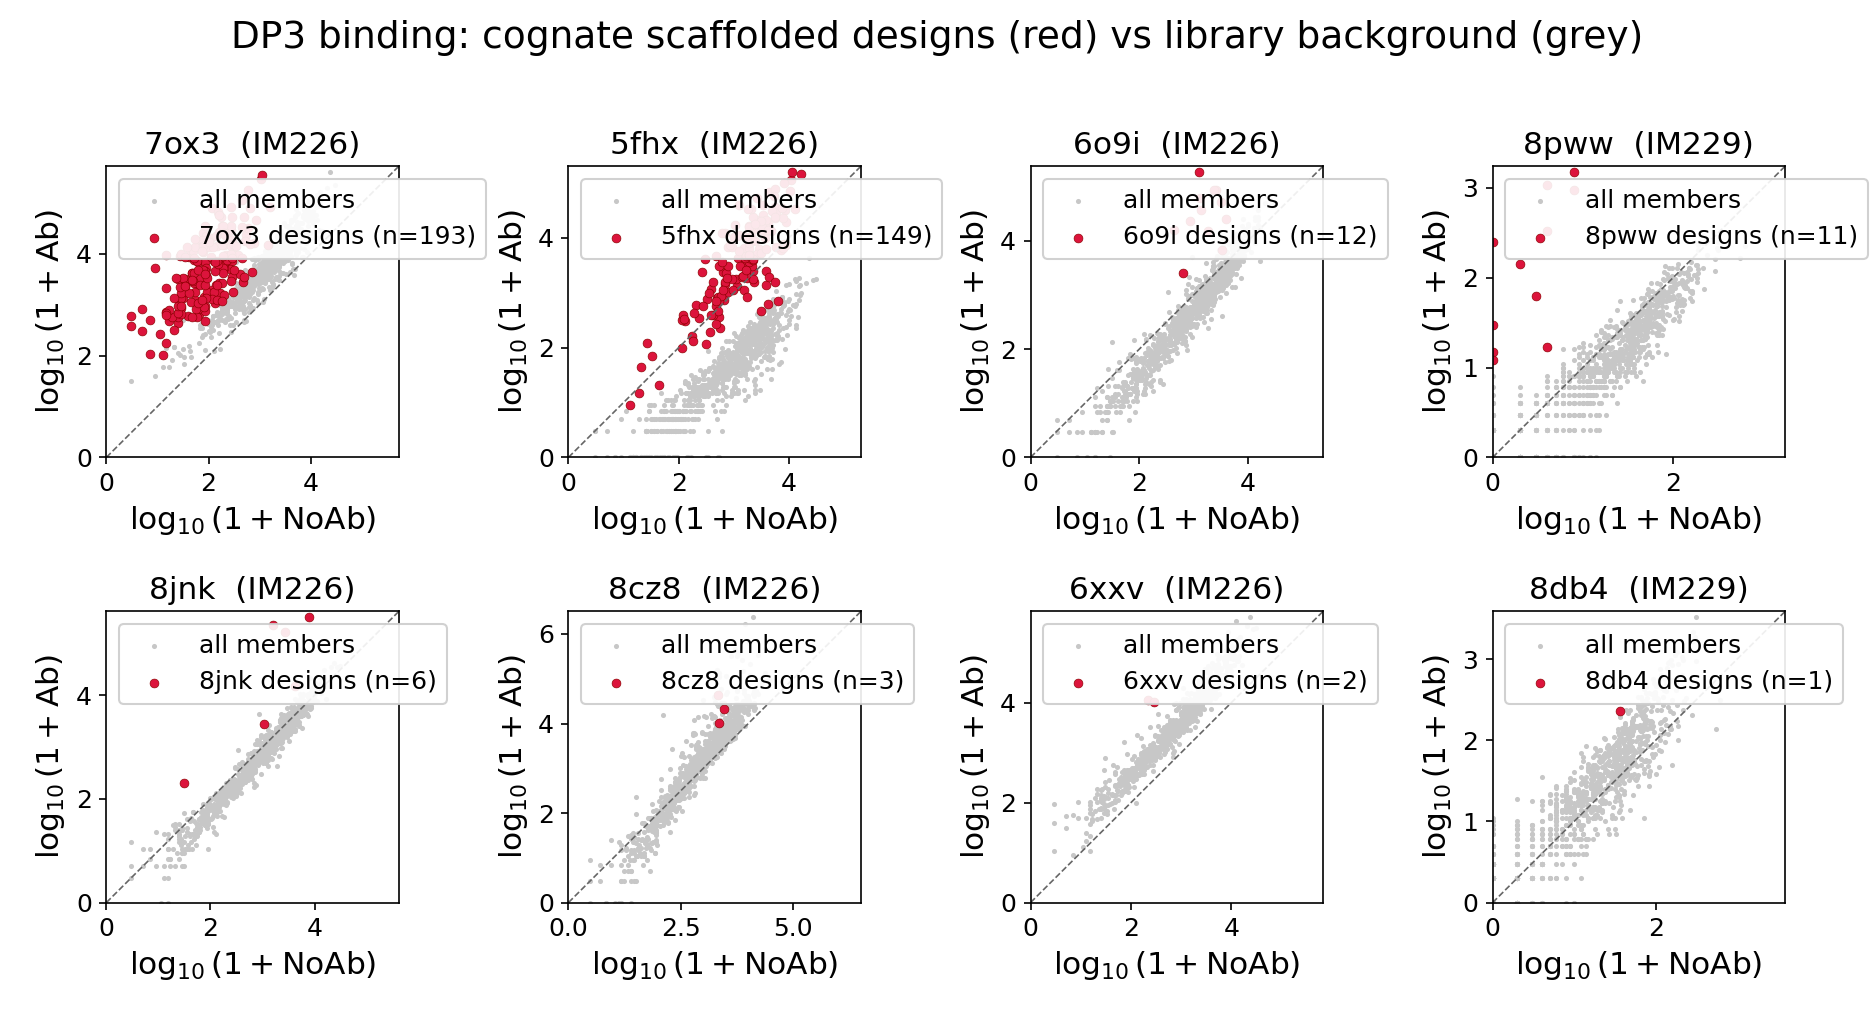
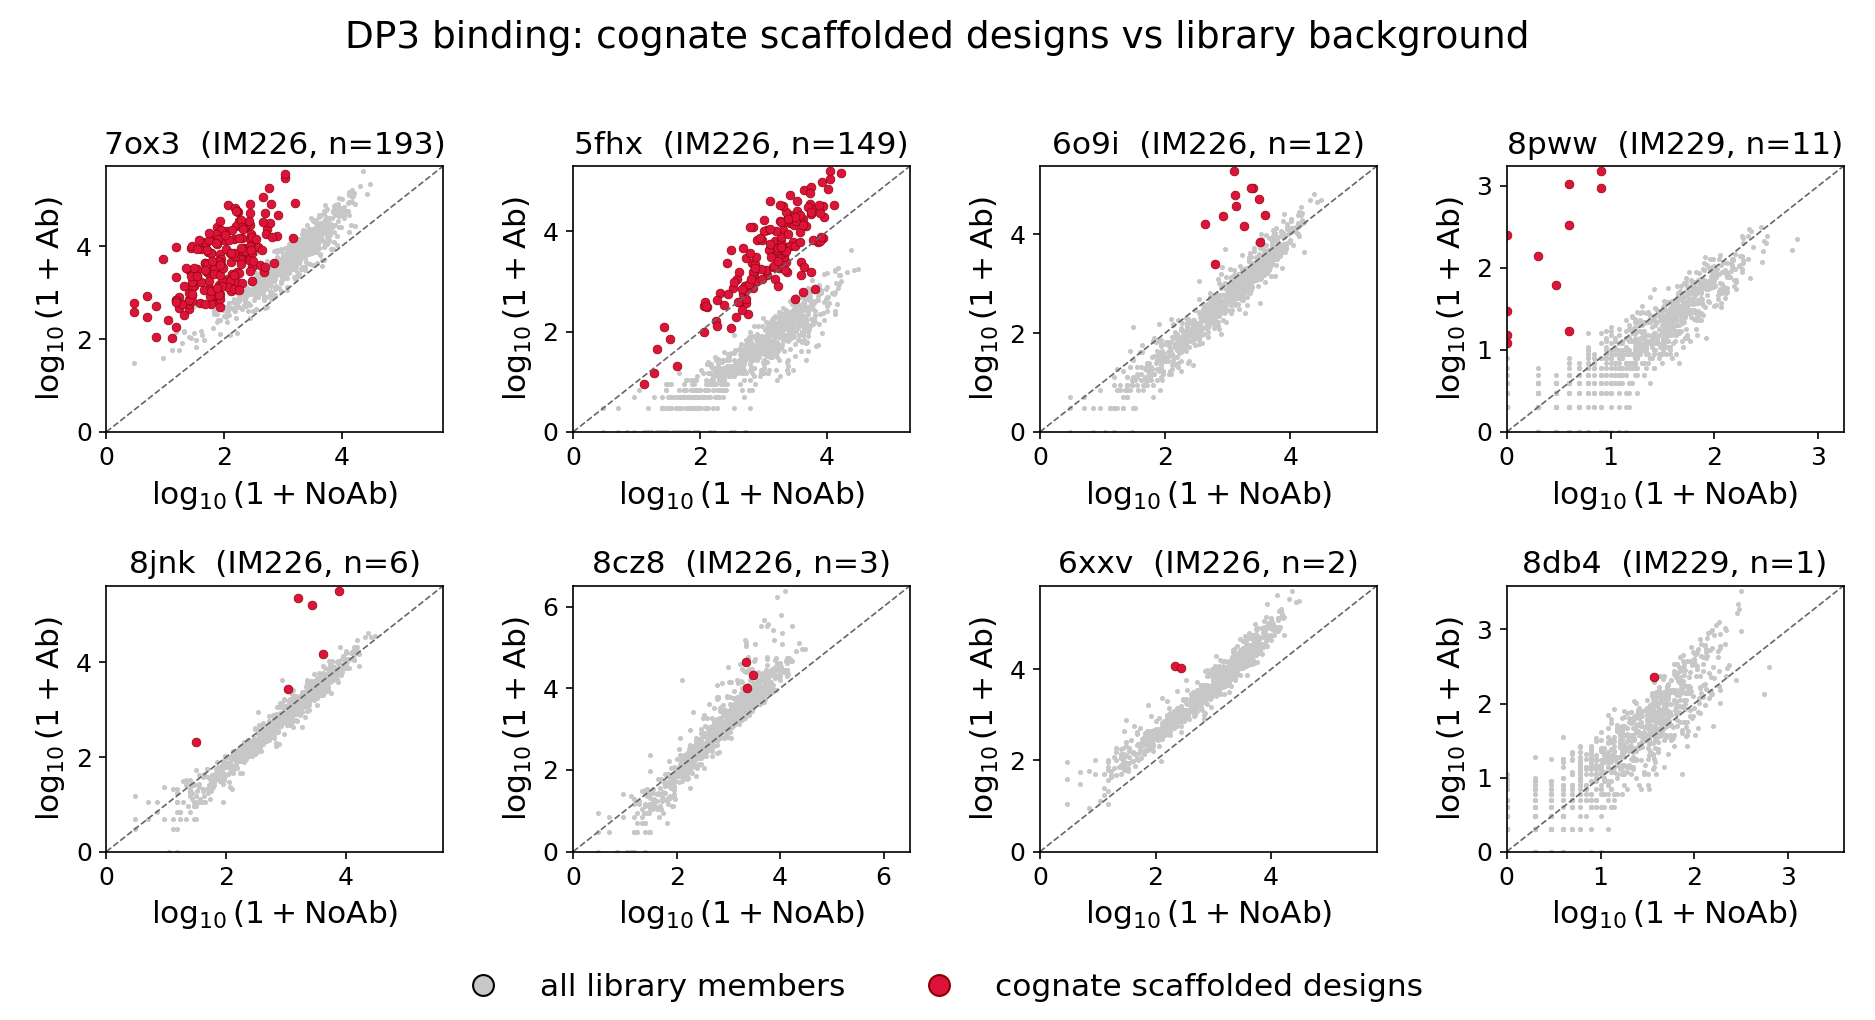
figure 8: one shared legend instead of 8 data-blocking per-panel legends
Remove the per-panel legends that covered the upper-left data in every panel.
Move each antibody's cognate count into its title (e.g. "7ox3 (IM226, n=193)")
and add a single figure-level legend at the bottom: grey = all library members,
red = cognate scaffolded designs.

diff --git a/scripts/analyze_dp3_binding.py b/scripts/analyze_dp3_binding.py
@@ -85,25 +85,32 @@ def main() -> None:
 
 
 def _figure(d: pd.DataFrame, cog: pd.DataFrame) -> None:
+    from matplotlib.lines import Line2D
     order = sorted(RUNS, key=lambda ab: -(cog.cognate_ab == ab).sum())
     fig, axes = plt.subplots(2, 4, figsize=(12.5, 6.8))
     for ax, ab in zip(axes.flat, order):
         ab_col, noab_col, run = RUNS[ab]
         x, y = log(d[noab_col]), log(d[ab_col])
-        ax.scatter(x, y, s=6, c="0.78", linewidths=0, label="all members")
+        ax.scatter(x, y, s=6, c="0.78", linewidths=0)
         m = d.cognate_ab == ab
-        ax.scatter(x[m], y[m], s=18, c="crimson", edgecolors="darkred",
-                   linewidths=0.3, label=f"{ab} designs (n={int(m.sum())})")
+        ax.scatter(x[m], y[m], s=18, c="crimson", edgecolors="darkred", linewidths=0.3)
         lim = [0, max(x.max(), y.max()) * 1.02]
         ax.plot(lim, lim, "--", c="0.4", lw=0.8)  # NoAb diagonal
         ax.set_xlim(lim); ax.set_ylim(lim)
-        ax.set_title(f"{ab}  ({run})", fontsize=15)
+        ax.set_title(f"{ab}  ({run}, n={int(m.sum())})", fontsize=15)  # cognate count in title
         ax.set_xlabel(r"$\log_{10}(1+\mathrm{NoAb})$")
         ax.set_ylabel(r"$\log_{10}(1+\mathrm{Ab})$")
-        ax.legend(fontsize=12, loc="upper left", framealpha=0.9)
-    fig.suptitle("DP3 binding: cognate scaffolded designs (red) vs library background (grey)",
+    fig.suptitle("DP3 binding: cognate scaffolded designs vs library background",
                  fontsize=18)
-    fig.tight_layout(rect=[0, 0, 1, 0.97])
+    handles = [
+        Line2D([0], [0], marker="o", color="none", markerfacecolor="0.78",
+               markersize=10, label="all library members"),
+        Line2D([0], [0], marker="o", color="none", markerfacecolor="crimson",
+               markeredgecolor="darkred", markersize=10, label="cognate scaffolded designs"),
+    ]
+    fig.legend(handles=handles, loc="lower center", ncol=2, fontsize=15,
+               frameon=False, bbox_to_anchor=(0.5, -0.01))
+    fig.tight_layout(rect=[0, 0.05, 1, 0.97])
     FIG.parent.mkdir(parents=True, exist_ok=True)
     fig.savefig(FIG, dpi=150)
     print(f"\nwrote {FIG}")